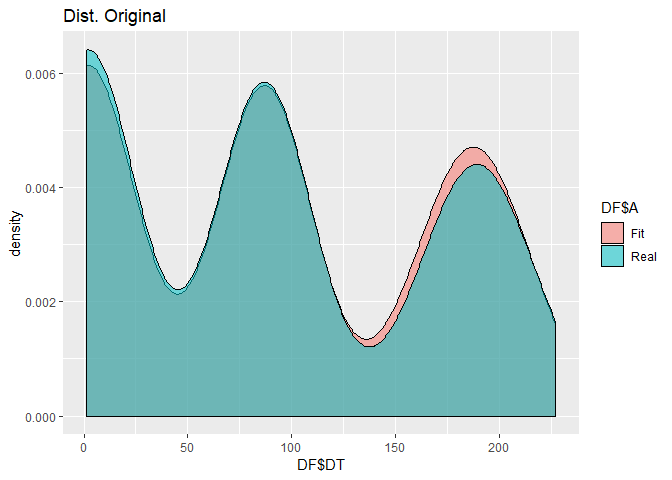
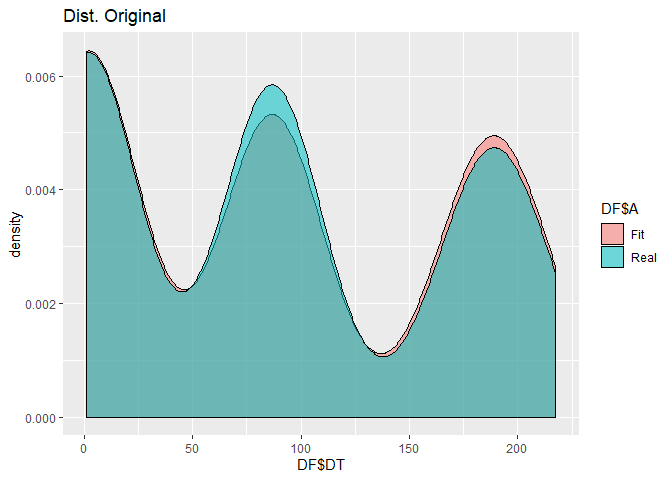
version 3.1.0

diff --git a/README.md b/README.md
@@ -15,29 +15,24 @@ density functions
 You can install the released version of FitUltD from
 [CRAN](https://CRAN.R-project.org) with:
 
-``` r
-install.packages("FitUltD")
-```
+install.packages(“FitUltD”)
 
 ## Example
 
-This is a basic example which shows you how to solve a common problem:
+This is a basic example which shows you how to fit a multimodal random
+variable:
 
 ``` r
 library(FitUltD)
-FIT1<-FDistUlt(c(rnorm(73,189,12),rweibull(82,401,87),rgamma(90,40,19)), plot=TRUE)
-#> Error in computing default starting values.
-#> Error in computing default starting values.
-#> Error in computing default starting values.
-#> Error in computing default starting values.
-#> Error in computing default starting values.
-#> Error in computing default starting values.
-#> Error in computing default starting values.
-#> Error in computing default starting values.
-#> Error in computing default starting values.
-#> Error in computing default starting values.
-#> Error in computing default starting values.
-#> Error in computing default starting values.
+#> Loading required package: mclust
+#> Package 'mclust' version 5.4.5
+#> Type 'citation("mclust")' for citing this R package in publications.
+#random Variable
+RV<-c(rnorm(73,189,12),rweibull(82,401,87),rgamma(90,40,19))
+
+FIT1<-FDistUlt(RV, plot=TRUE, subplot = TRUE)
+#> <simpleError in optim(par = vstart, fn = fnobj, fix.arg = fix.arg, obs = data,     gr = gradient, ddistnam = ddistname, hessian = TRUE, method = meth,     lower = lower, upper = upper, ...): non-finite finite-difference value [2]>
+#> <simpleError in optim(par = vstart, fn = fnobj, fix.arg = fix.arg, obs = data,     gr = gradient, pdistnam = pdistname, hessian = TRUE, method = meth,     lower = lower, upper = upper, ...): non-finite finite-difference value [2]>
 ```
 
 What is special about using `README.Rmd` instead of just `README.md`?
@@ -45,10 +40,11 @@ You can include R chunks like so:
 
 ``` r
 FIT1[[3]]
-#>               Distribucion Prop_dist    AD_p.v    KS_p.v Chs_p.v
-#> AD4     lnorm(5.24, 0.077) 0.2979592 0.9675941 0.9298268       0
-#> AD12   norm(86.871, 0.277) 0.3346939 0.6223739 0.7982842       0
-#> AD2  gamma(48.145, 22.723) 0.3673469 0.9556936 0.9826995       0
+#>                    Distribucion  Prop_dist    AD_p.v    KS_p.v Chs_p.v
+#> AD6         lnorm(5.242, 0.052) 0.29795918 0.8372311 0.8985857       0
+#> AD8    weibull(434.484, 86.552) 0.09387755 0.8861584 0.7938189       0
+#> AD2  gamma(497882.65, 5721.237) 0.24081633 0.7523182 0.7705192       0
+#> AD61        lnorm(0.722, 0.162) 0.36734694 0.9807500 0.9616154       0
 ```
 
 You’ll still need to render `README.Rmd` regularly, to keep `README.md`
@@ -58,5 +54,4 @@ You can also embed plots, for example:
 
 <img src="man/figures/README-pressure-1.png" width="100%" />
 
-In that case, don’t forget to commit and push the resulting figure
-files, so they display on GitHub\!
+<img src="man/figures/README-plots-mult-1.png" width="100%" />

diff --git a/NEWS.md b/NEWS.md
@@ -1,0 +1,9 @@
+# FitUltD 3.1.0
+
+## version 3.0.0
+### First changes
+- language in the dataframe
+
+# FitUltD 3.0.0.9000
+
+* Added a `NEWS.md` file to track changes to the package.
